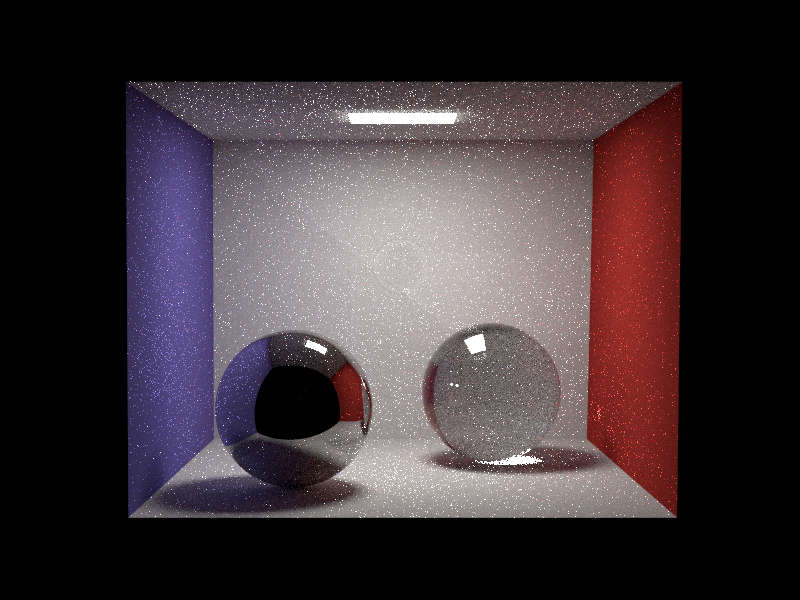
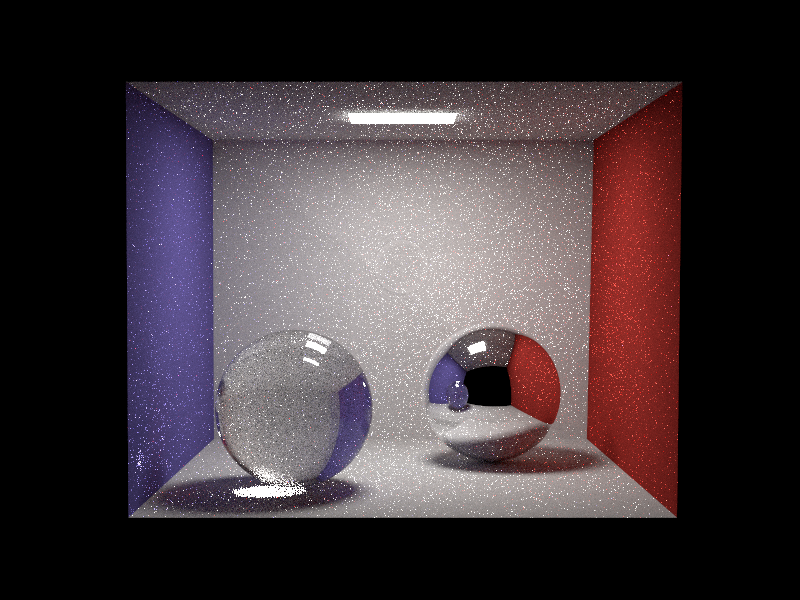
Update glass pictures

diff --git a/src/main.cpp b/src/main.cpp
@@ -17,7 +17,7 @@ int main(int argc, char *argv[]) {
     scenes[1] = "Rainbow/scenes/motto/motto-diffuse.xml";
     scenes[2] = "Rainbow/scenes/veach_mi/veach_mis.xml";
 
-    std::string filename(solutionDir + scenes[2]);
+    std::string filename(solutionDir + scenes[0]);
 
 	RainbowInit();	
 	filesystem::path path(filename);
